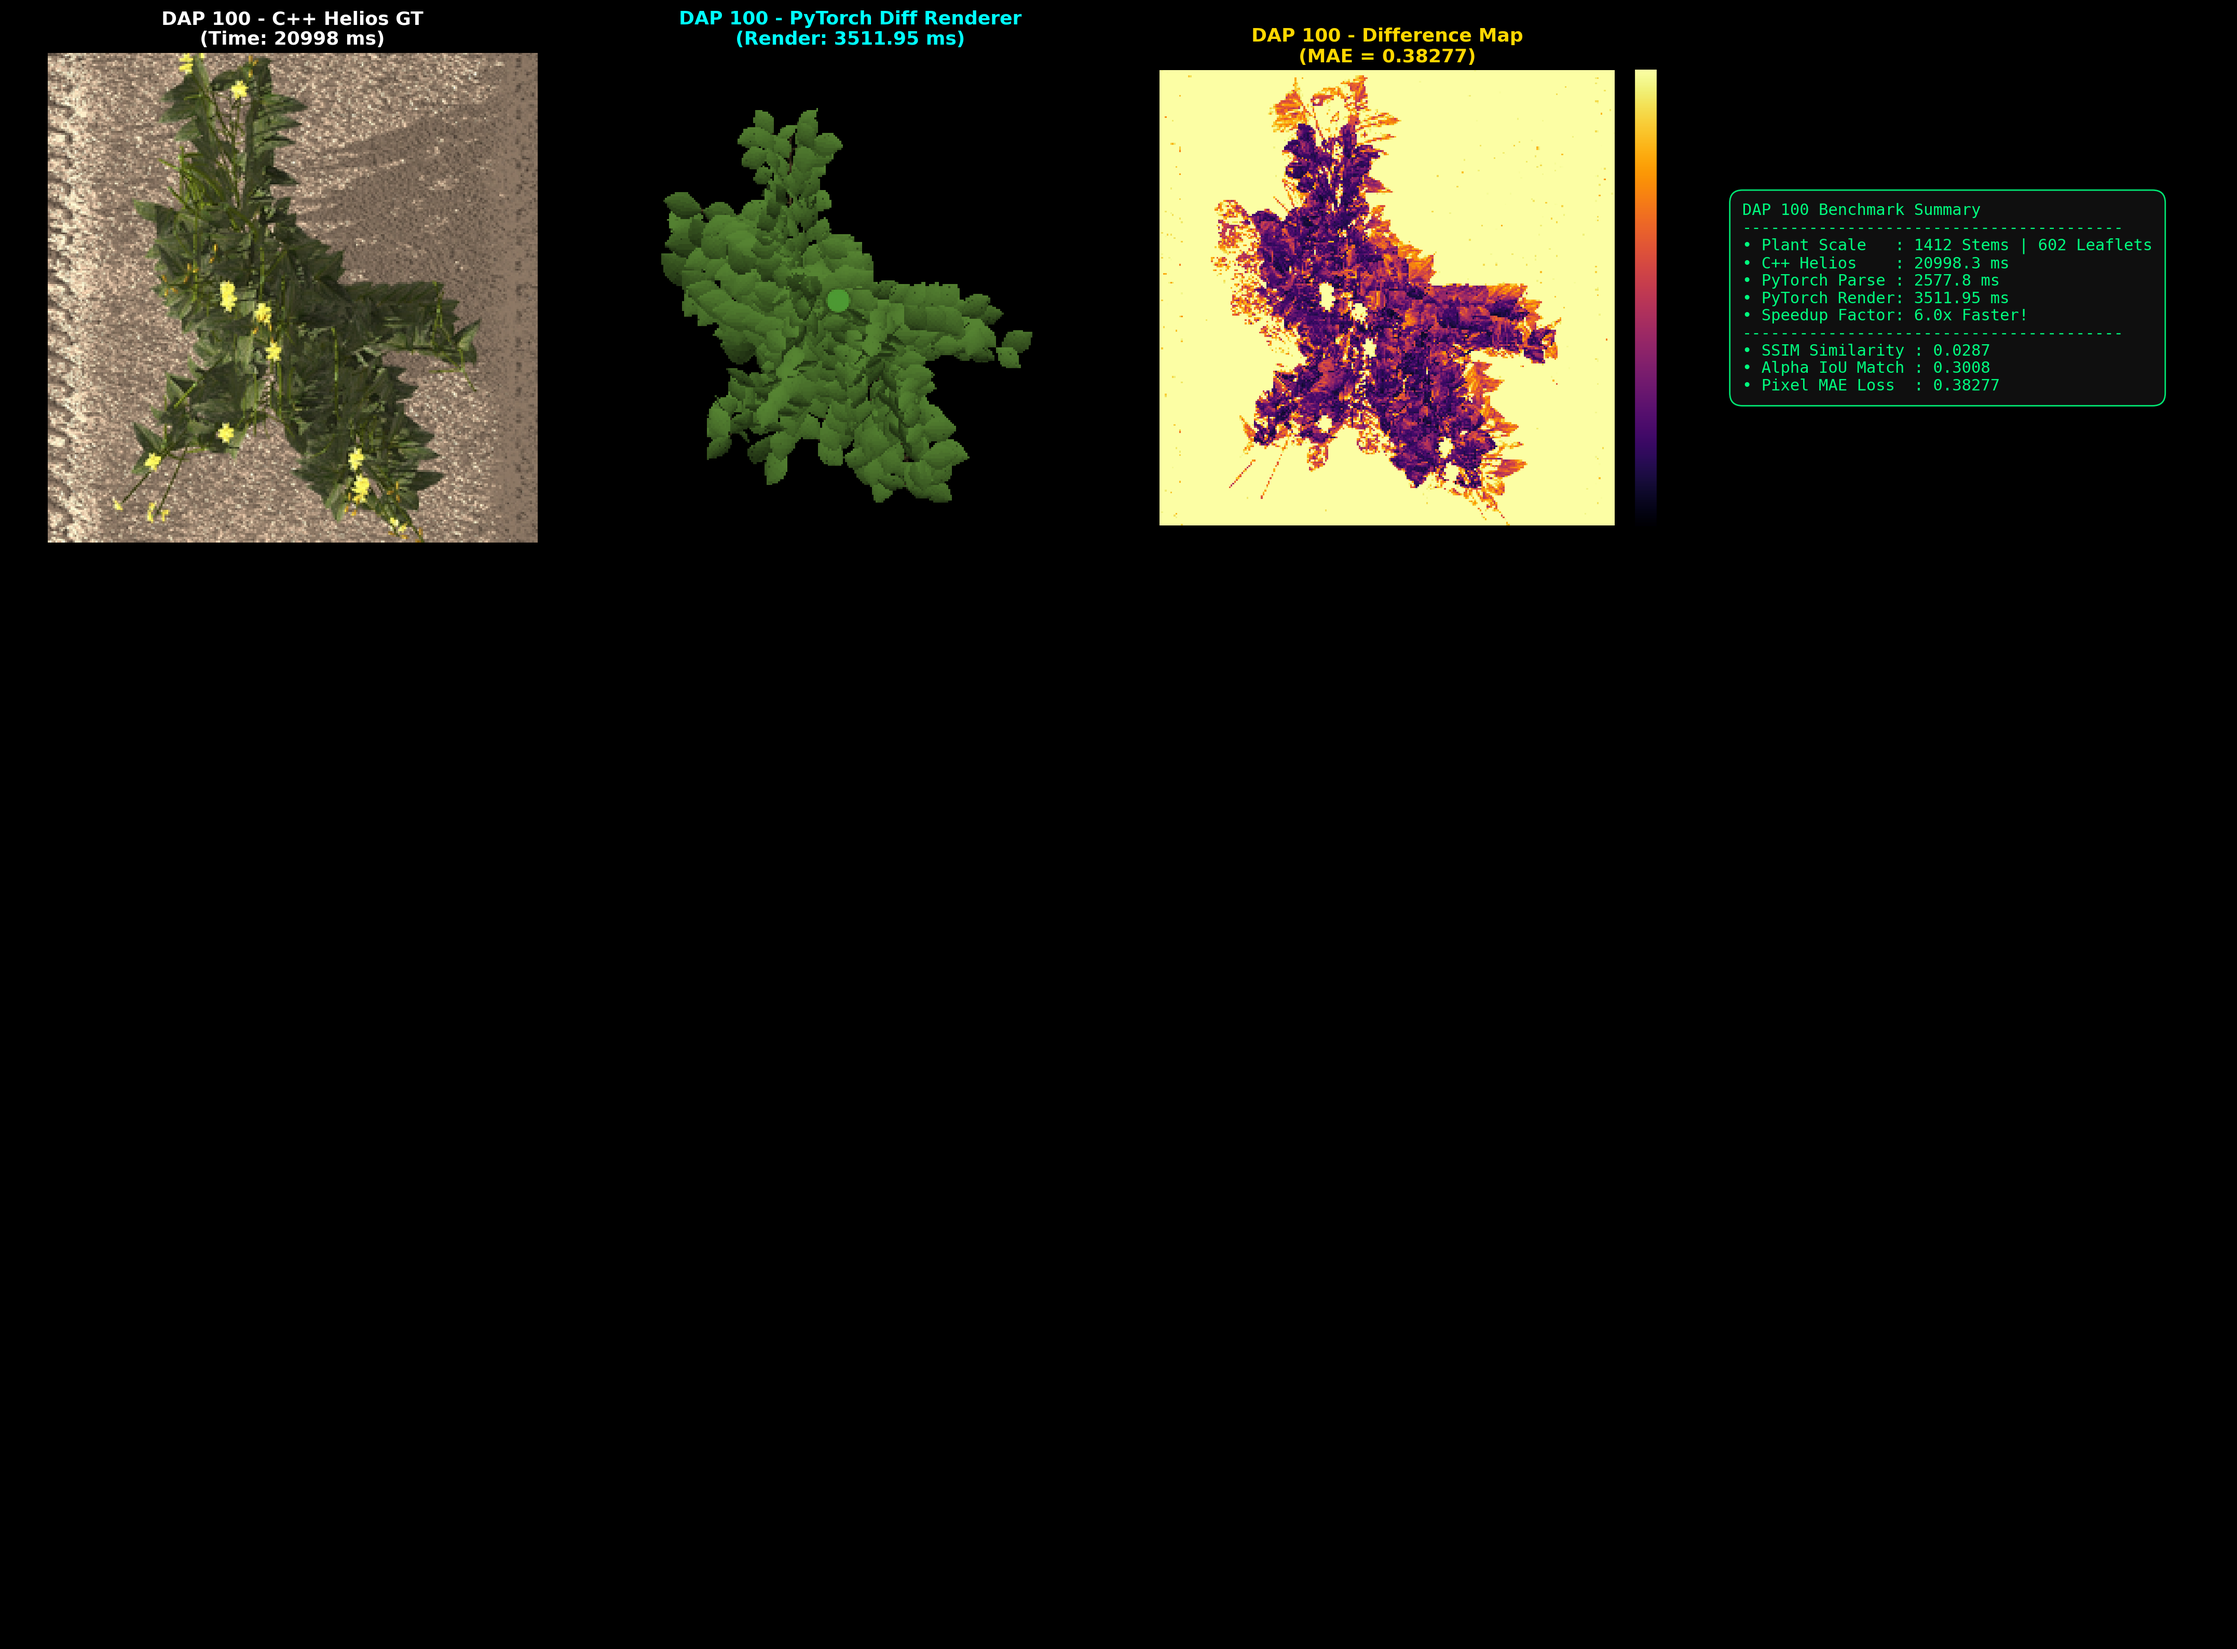
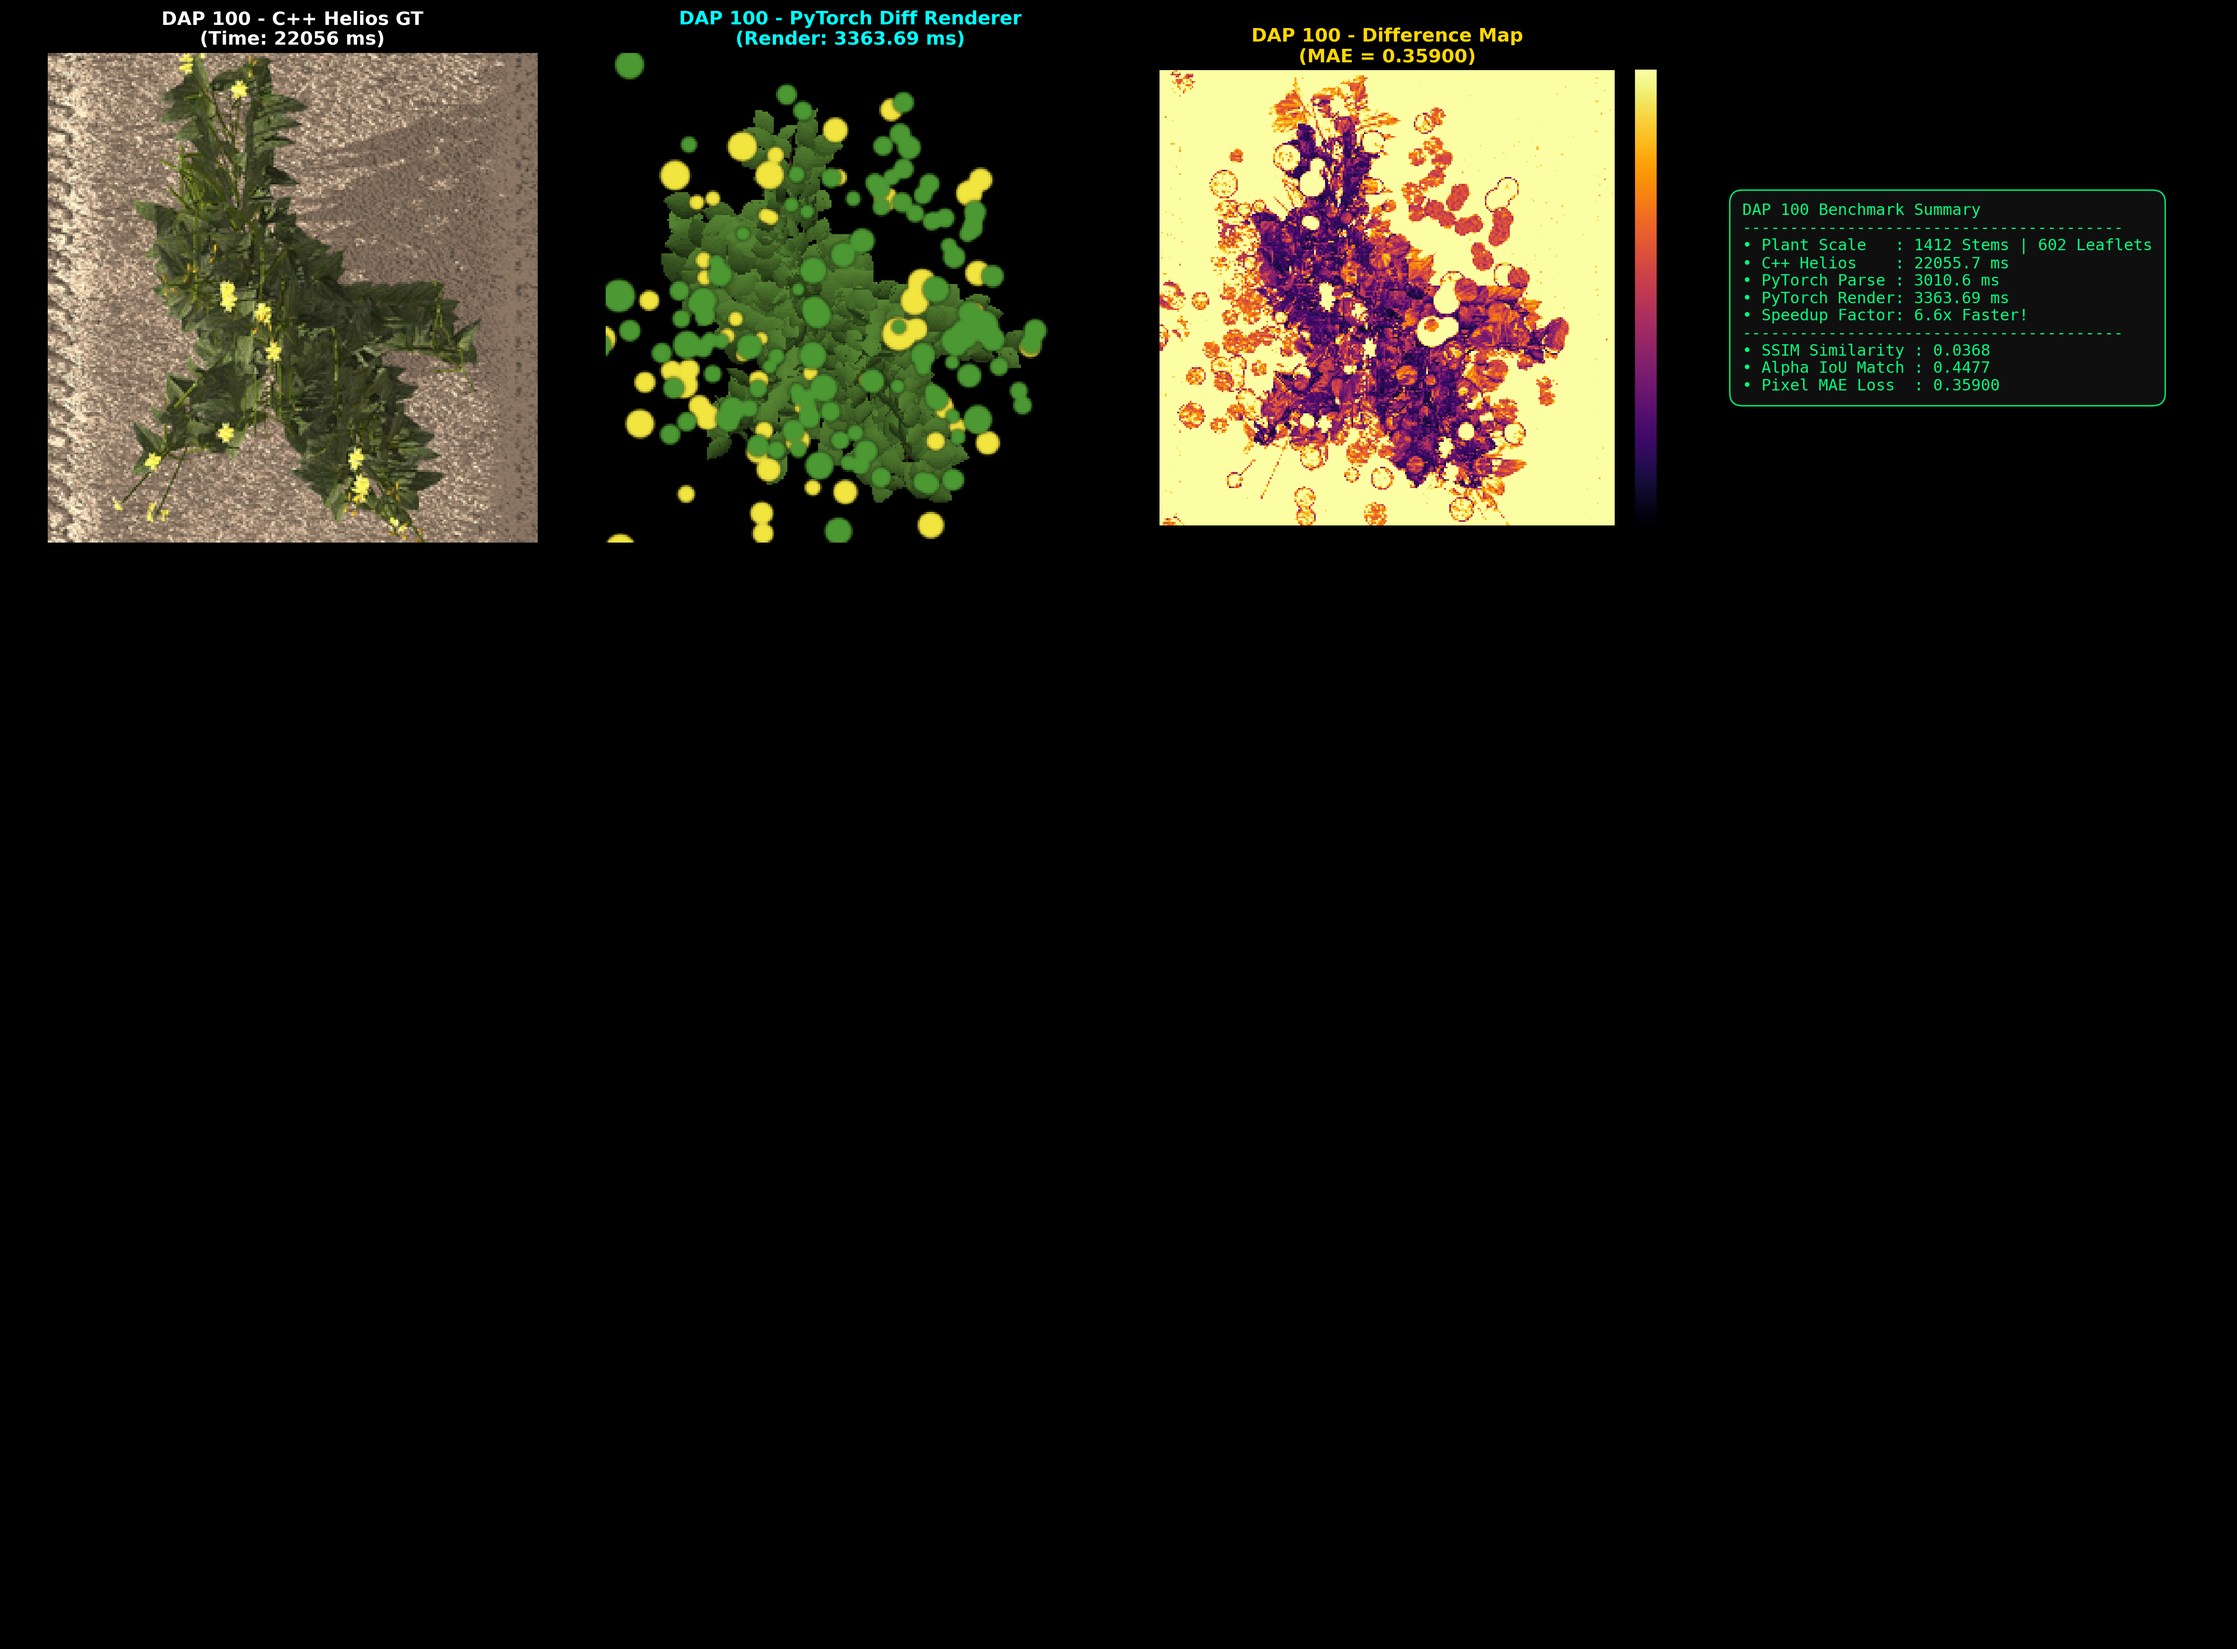
fix: Correct 3D head_pos reconstruction for flowers and pods in DAP 100 rendering

diff --git a/diffusion_based/models/helios_geometry.py b/diffusion_based/models/helios_geometry.py
@@ -321,7 +321,6 @@ def build_helios_geometry_from_xml(xml_path: str) -> HeliosPlantGeometry:
 
     # We will re-run the forward kinematics from the raw phytomer parameters.
     # The parser already has helper data structures in self.shoots.
-    # For exactness we recompute here from the raw XML elements directly.
     root = parser.root
     plant_elem = root.find(".//plant_instance")
     if plant_elem is None:
@@ -335,7 +334,7 @@ def build_helios_geometry_from_xml(xml_path: str) -> HeliosPlantGeometry:
         sd = parser._parse_shoot_element(shoot_elem)
         shoots_data[sd.shoot_id] = sd
 
-    # Compute parent axis info from parsed shoots
+    # Compute parent axis info and 3D geometry (leaves, tubes, floral bud head_pos)
     for sd in sorted(shoots_data.values(), key=lambda s: s.shoot_id):
         _reconstruct_shoot_geometry_exact(sd, shoots_data, base_position)
 
@@ -680,6 +679,16 @@ def _reconstruct_shoot_geometry_exact(
         # --- floral buds ---
         for fbud in pet.get("floral_buds", []):
             fbud["base_pos"] = pet_vertices[-1].copy()
+            ped_len = fbud.get("peduncle_length", 0.0)
+            ped_pitch = math.radians(fbud.get("peduncle_pitch", 0.0))
+            bud_axis = pet_axis.copy()
+            if abs(ped_pitch) > 1e-10:
+                bud_axis = _np_rodrigues(bud_axis, pet_rot_axis, abs(ped_pitch))
+            if ped_len > 0:
+                fbud["head_pos"] = pet_vertices[-1] + ped_len * _np_normalize(bud_axis)
+            else:
+                fbud["head_pos"] = pet_vertices[-1].copy()
+
 
 
 def _get_perp(v: np.ndarray) -> np.ndarray:
